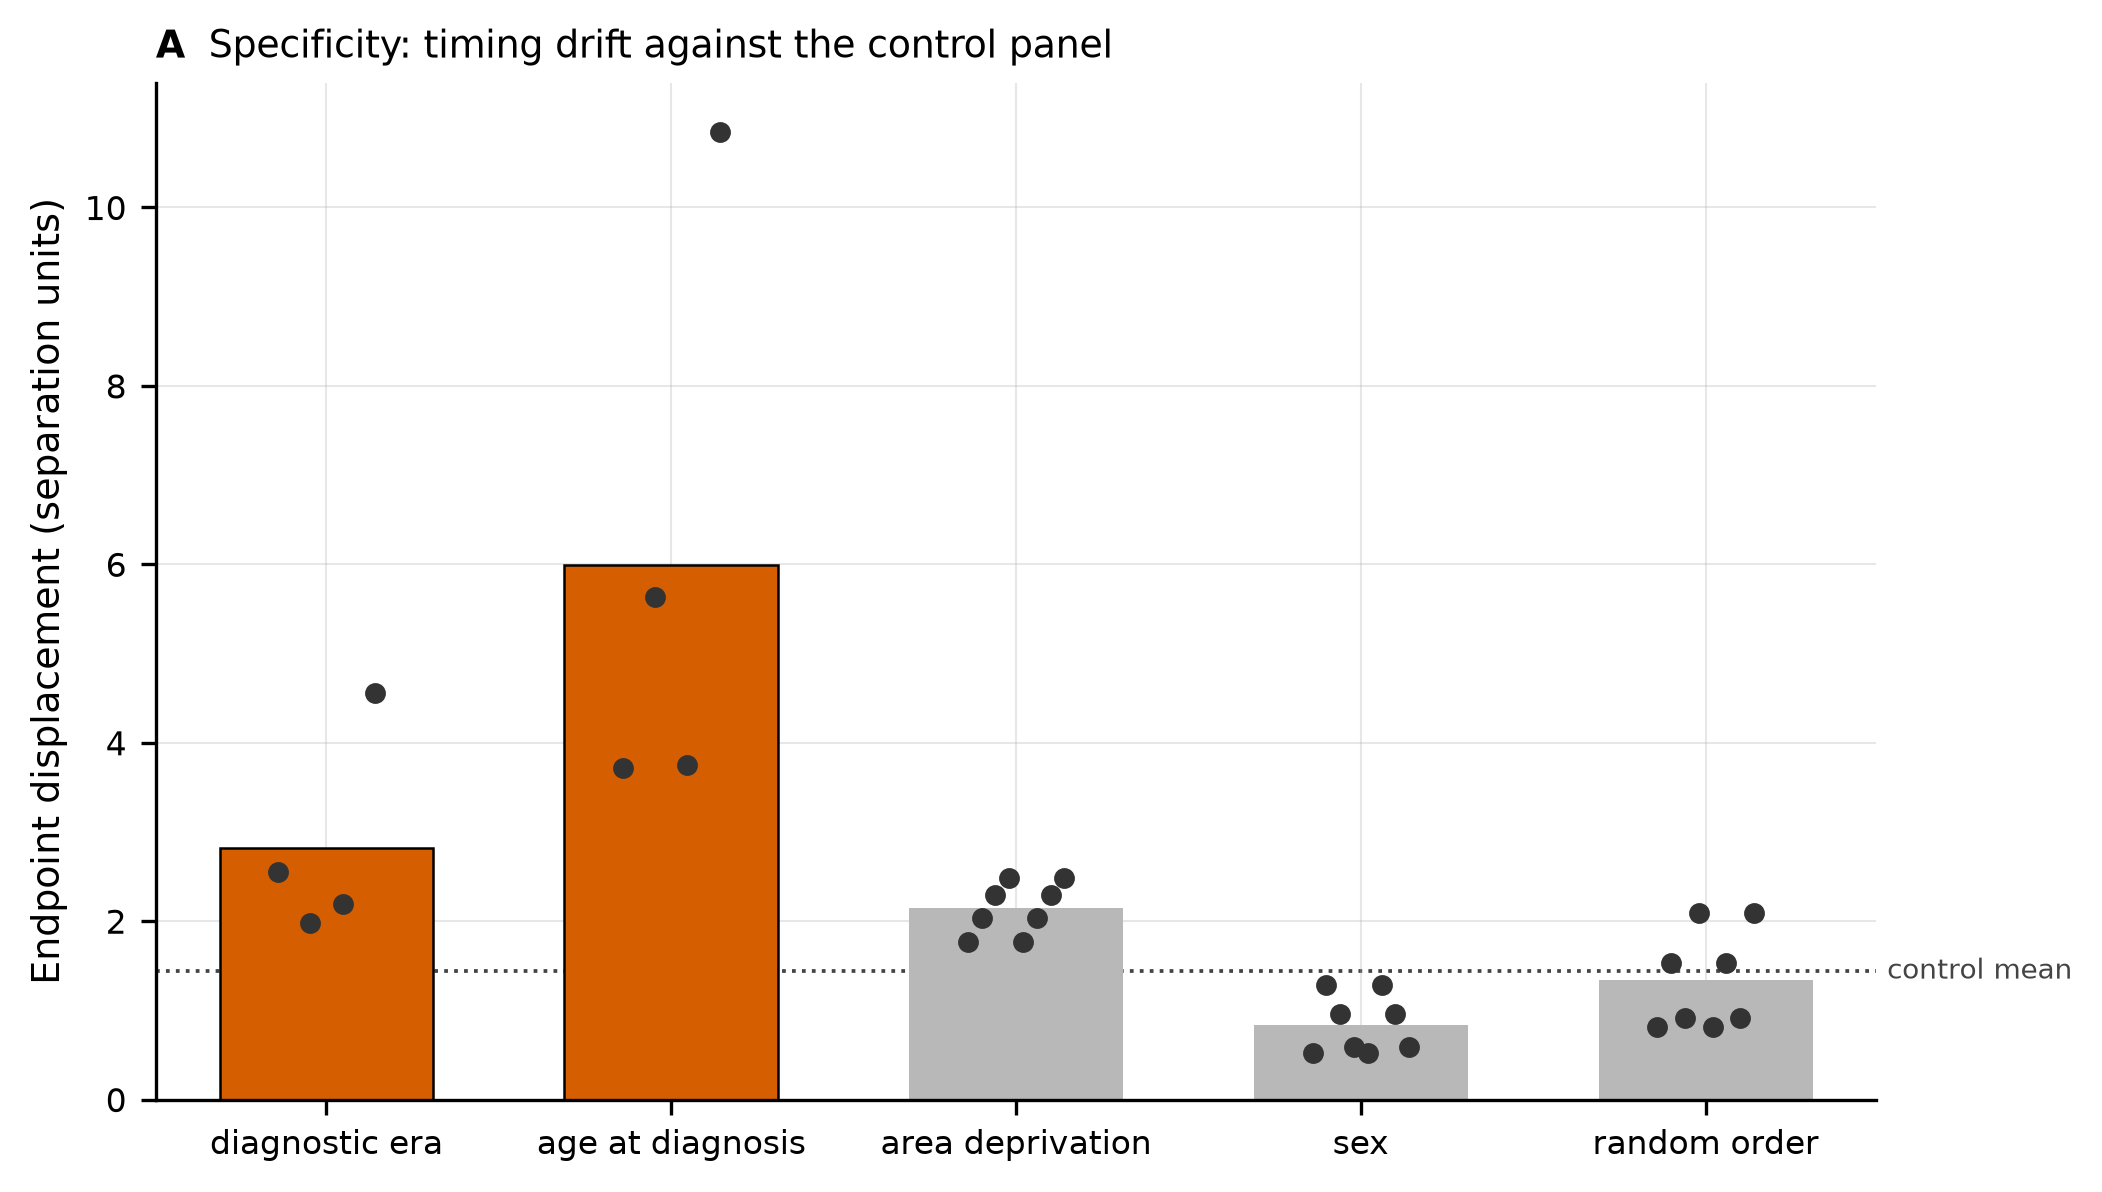
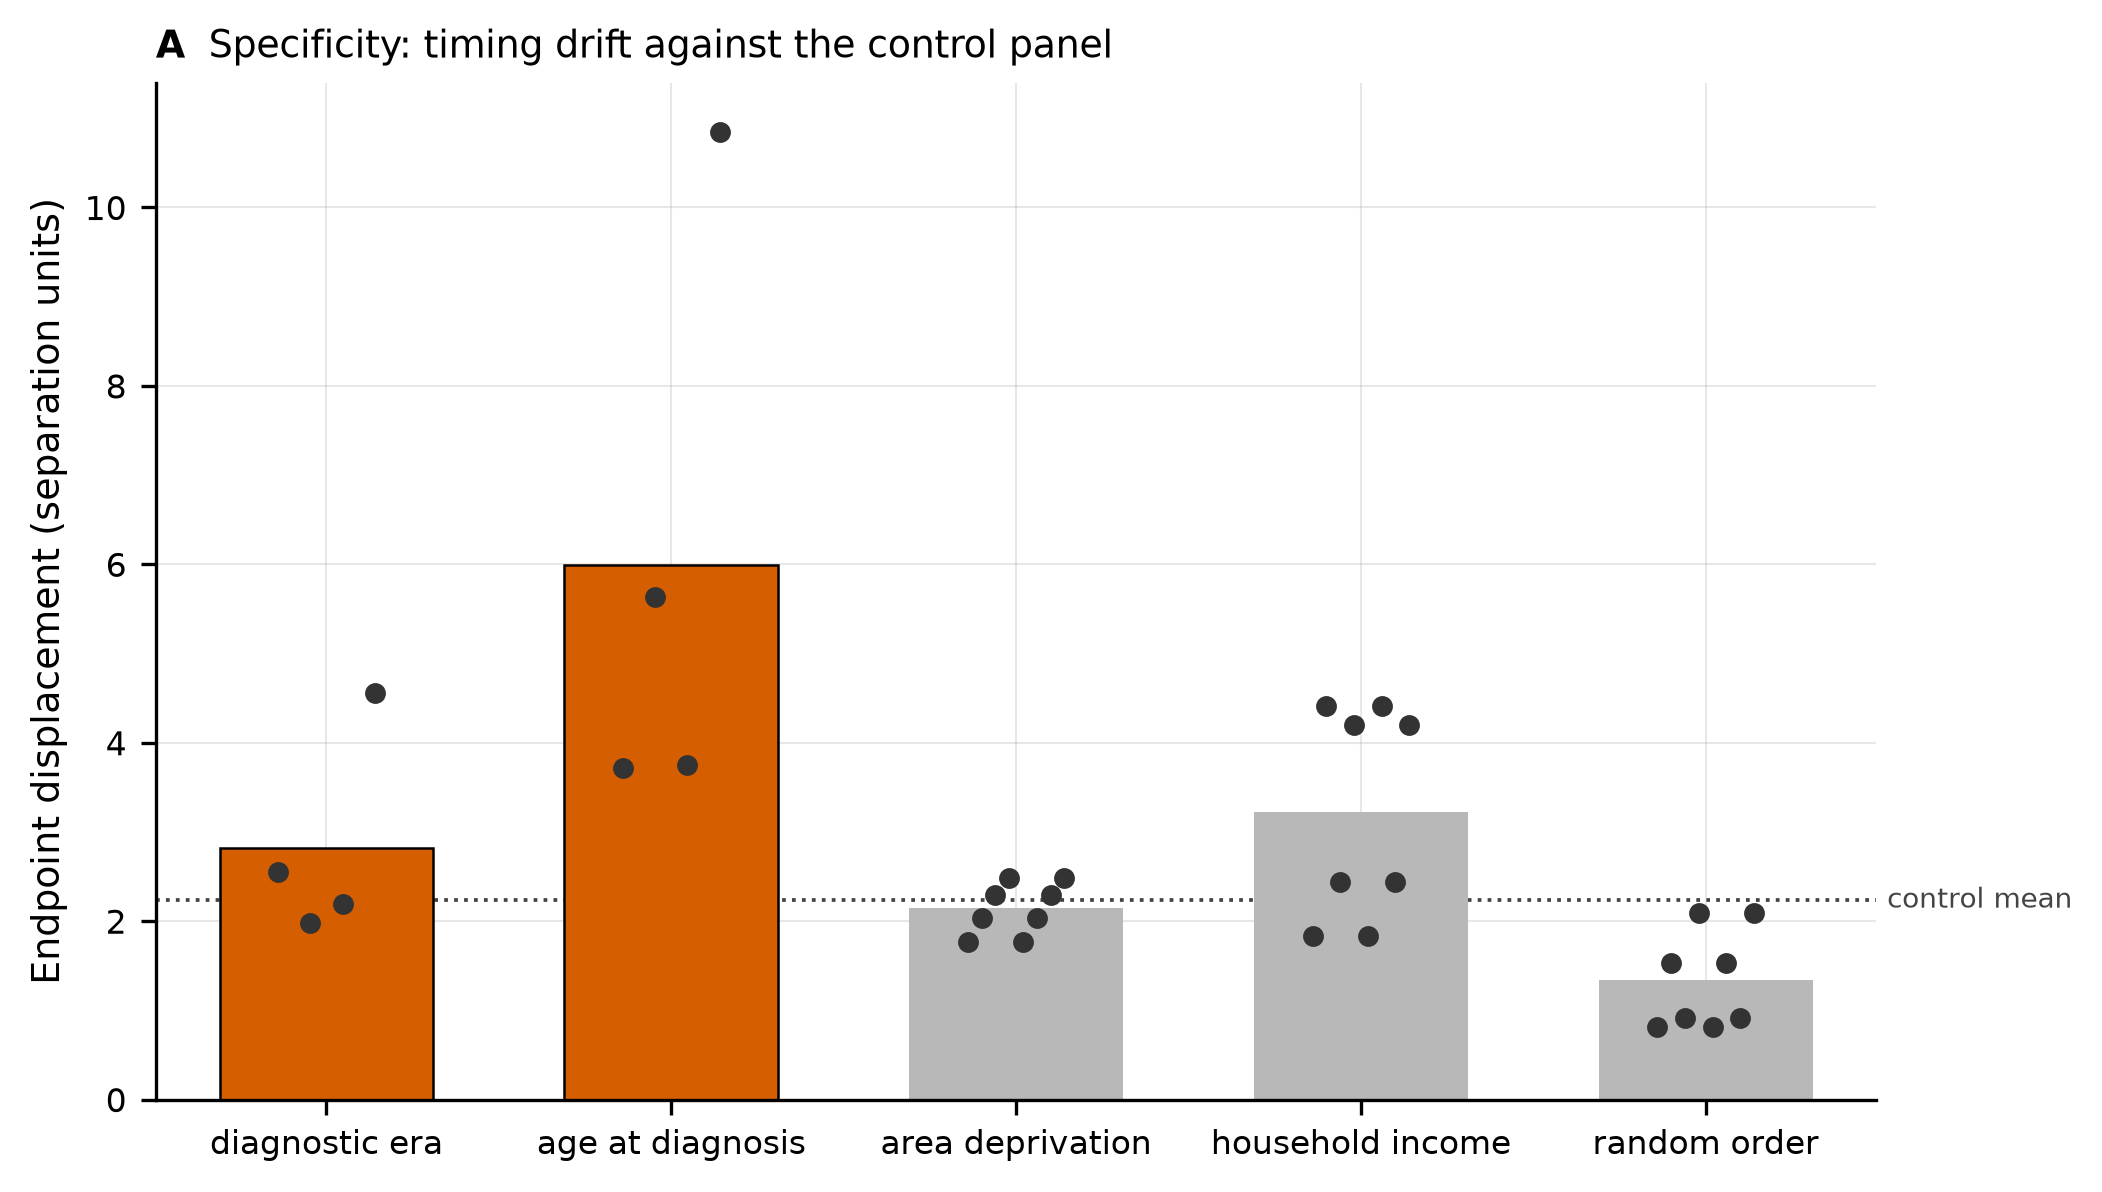
docs(analysis): investigation on choosing the specificity controls
Write up how the negative-control panel is selected: exclude the
clustered features and other phenotype measures by role (ordering by
them moves the centroids by construction), then screen the remaining
proband-level covariates for timing-orthogonality, gradedness, and
missingness. Show that household income, the control that decides the
era verdict, sits mid-scale between the random floor and the phenotype
ceiling and is uncorrelated with the severity axis, so its height is a
socioeconomic gradient rather than leaked phenotype. Rewrite the
specificity section of the invariance guide with the screened panel
and the per-class result, and re-render the figure.

diff --git a/packages/analysis/src/analysis/trajectory_local.py b/packages/analysis/src/analysis/trajectory_local.py
@@ -659,7 +659,7 @@ class ControlComparison:
     ----------
     axis_magnitude, control_magnitude : float
         The observed, class-averaged, separation-scaled endpoint magnitude of the timing axis and
-        of the control variable (sex, area deprivation, or a random ordering).
+        of the control variable (household income, area deprivation, or a random ordering).
     difference : float
         ``axis_magnitude - control_magnitude``.
     diff_draws : numpy.ndarray

diff --git a/docs/source/packages/analysis/investigations/choosing-the-specificity-controls.md b/docs/source/packages/analysis/investigations/choosing-the-specificity-controls.md
@@ -1,0 +1,159 @@
+# Choosing the specificity controls
+
+:::{admonition} The question
+:class: note
+
+The specificity check asks whether a class drifts more along diagnosis timing than along variables
+that are not the mechanism under test. That comparison is only as good as its controls. The first
+panel (sex, the area deprivation index, and a random ordering) was lifted from the descriptive-table
+covariates, not chosen for control validity, and it has a soft spot: sex is binary, so the
+displacement trajectory has almost nothing to walk. This page sets out what a control must be, screens
+the full covariate pool against those criteria, and settles whether the strongest survivor, household
+income, is a fair control or a phenotype measure in disguise.
+:::
+
+:::{admonition} The result
+:class: tip
+
+A control has to be a real proband-level covariate that is not the phenotype and is orthogonal to the
+timing axes. Two roles fail on principle and are excluded before any number is read: the 238 clustered
+features (ordering by one moves the class centroids by construction) and other phenotype measures such
+as symptom totals or IQ (a non-null ceiling, and several track timing too). Screening the legitimate
+pool leaves two graded, timing-orthogonal, near-complete covariates, household income and area
+deprivation, with a random ordering as the floor. Household income is the hardest bar (mean endpoint
+displacement about 3.2 separation units) and a fair one: it sits well below the phenotype ceiling and
+is uncorrelated with the severity axis, so its height is a genuine socioeconomic gradient rather than
+leaked phenotype. Sex is dropped, binary and the least timing-orthogonal of the candidates.
+:::
+
+## The comparison the check makes
+
+A large displacement on its own does not separate genuine drift from noise accumulated over many
+features, because the norm of pure sampling noise is positive too. The specificity check reads the
+same separation-scaled endpoint displacement along control variables and asks whether the timing axes
+exceed them. A class is above the noise floor if it clears a random ordering, and specific to timing
+if it also clears a real covariate that is not the mechanism. The mechanics of the endpoint
+displacement are in the guide on {doc}`invariance as an effect size
+<../guides/invariance-as-an-effect-size>`; this page is about which controls earn a place in the
+comparison.
+
+## Two roles are disqualified before any number
+
+The variables split by role, and two roles cannot be negative controls whatever their numbers say.
+
+The classes are defined in the space of the 238 clustered features, so ordering probands by one of
+them, and reading how the class centroids shift along that order, is circular: the centroids differ on
+that feature because the classes were built to. Symptom totals and ability scores that are not in the
+238 are the second excluded role. They are still phenotype, correlated with the clustered features by
+construction, so ordering by them moves the centroids for a real but non-timing reason, a ceiling
+rather than a null. Cognitive impairment and IQ belong here, which is why neither can serve as a
+control even though both are proband-level covariates.
+
+This is why a screen that simply ranks every variable by its correlation with timing and picks the
+lowest would go wrong. The RBS-R total has a rank correlation with year of diagnosis and with age at
+diagnosis of about $0.03$ to $0.04$, cleaner than area deprivation, yet it is a total over
+clustered instrument items and moving probands along it would shift the centroids by construction.
+Orthogonality to timing is necessary but not sufficient. A control must also not be the phenotype, and
+a correlation cannot see role.
+
+## Screening the legitimate pool
+
+The legitimate pool is the proband-level covariates that are not the phenotype. Each was screened on
+the reference cohort (SPARK `2026-03-23`, 11,704 probands) for its rank correlation with the two
+timing axes, whether it is graded enough for the trajectory to have an axis to walk, and its
+missingness.
+
+| Candidate | Role | Distinct values | Missing | $\lvert\rho\rvert$ era | $\lvert\rho\rvert$ age |
+| --- | --- | --- | --- | --- | --- |
+| Random ordering | floor | 11,704 | 0% | 0.003 | 0.003 |
+| Area deprivation (2019 ADI) | covariate | 100 | 10.6% | 0.043 | 0.035 |
+| Household income (9 bands) | covariate | 9 | 1.3% | 0.070 | 0.041 |
+| Number of ASD siblings | covariate | 6 | 30.9% | 0.021 | 0.027 |
+| Sex | covariate | 2 | 0% | 0.113 | 0.106 |
+| Race (white indicator) | covariate | 2 | 0% | 0.243 | 0.175 |
+| Family type | covariate | 3 | 0% | 0.208 (eta) | 0.082 (eta) |
+| RBS-R total | phenotype | 128 | 0% | 0.031 | 0.037 |
+| SCQ total | phenotype | 40 | 0% | 0.278 | 0.227 |
+| Full-scale IQ | phenotype | 101 | 93.4% | 0.173 | 0.328 |
+| Registration year | timing | 12 | 0% | 0.692 | 0.261 |
+| Age at evaluation | timing | 14 | 0% | 0.249 | 0.410 |
+
+The screen validates itself at both ends. The variables that are timing by construction, registration
+year and age at evaluation, top the correlation ranking as they should, and the random ordering sits
+at $0.003$. Between them, only two covariates are graded, close to timing-orthogonal, and nearly
+complete: household income and the area deprivation index. Sex correlates with both timing axes more
+than either (about $0.11$) and is binary, so its trajectory is degenerate; its earlier low displacement
+was that degeneracy, not evidence of no phenotype signal. The white-race indicator and family type are
+more timing-confounded still. The pool of clean graded covariates in SPARK is small, so the panel is
+short by necessity, not by neglect.
+
+## Is household income too high?
+
+Household income is the hardest control: its per-class endpoint displacements reach $4.4$ for the
+Broadly affected class and $4.2$ for the developmental class, and that is what turns two era classes
+from specific to not specific. So the fair question is whether income is a legitimate strong
+socioeconomic gradient or is acting like the IQ and cognitive-impairment proxies the previous section
+excluded. Placing every axis on the same displacement scale answers it.
+
+| Axis | Role | Mean endpoint (sep. units) |
+| --- | --- | --- |
+| Random ordering | floor | 1.34 |
+| Area deprivation | covariate | 2.14 |
+| Household income | covariate | 3.22 |
+| SCQ total | phenotype ceiling | 6.59 |
+| RBS-R total | phenotype ceiling | 10.01 |
+
+Income sits in the middle of the scale, above the random floor and area deprivation but far below the
+phenotype ceiling that the clustered-instrument totals set at $6.6$ to $10.0$. A phenotype proxy would
+land at that ceiling; income is less than half of it. Its correlations tell the same story: income is
+uncorrelated with cognitive impairment (Spearman $|\rho| = 0.02$), the cleanest severity marker, so it
+is not a disguised severity axis; it correlates $0.50$ with area deprivation, confirming it is a
+socioeconomic measure; and it correlates $0.31$ with the RBS-R total, a real but modest social gradient
+in symptom severity. Income reads higher than area deprivation because household income is a cleaner
+socioeconomic signal than neighbourhood deprivation, not because it is phenotype.
+
+The same read explains why IQ and cognitive impairment cannot stand in as the ceiling here. Both came
+back near or below the floor ($0.9$ and $0.0$), degenerate because cognitive impairment is binary and
+IQ is present for only a small, selected minority. Only the graded clustered totals read as a real
+phenotype ceiling.
+
+So income stays. Its height is the control working, not failing. Dropping a valid control because it
+is stringent would select controls that flatter the timing result, the bias the screen exists to
+avoid. The screen chose income on validity grounds, blind to its magnitude, and swapping the earlier
+sex control (an easily cleared bar at $0.8$) for income (a stringent bar at $3.2$) makes the
+specificity test harder, not easier.
+
+## The panel
+
+:::{figure} /_figures/local_specificity.png
+:alt: Bar chart of endpoint displacement for era, age, area deprivation, household income, and random order
+:width: 100%
+:align: center
+
+Endpoint displacement by axis, in separation units, on the reference release. The two timing axes
+(highlighted) carry a dot per class; the control panel is area deprivation, household income, and a
+random ordering. The dotted line is the control mean.
+:::
+
+The panel is a random ordering (the floor, about $1.3$), household income (about $3.2$), and area
+deprivation (about $2.1$). Read per class rather than on the between-class mean, because a mean hides
+drift concentrated in one class: a class is above the noise floor if its endpoint clears the random
+ordering, and specific to timing if it also clears the household-income and area-deprivation controls.
+Along age at diagnosis all four classes clear every control. Along diagnostic era the Moderate
+challenges and developmental classes clear the covariate controls while the Broadly affected and
+Social or behavioral classes clear only the random floor, so their era drift is above noise but no
+larger than a real socioeconomic gradient in the same classes. This is the same two-class era verdict
+the earlier sex-and-deprivation panel gave, now standing against the stronger bar.
+
+## Limits
+
+The controls are read on the same frozen reference and the same endpoint displacement as the timing
+axes, so they inherit its assumptions: the comparison is where the class centroids sit along an
+ordering, not a re-estimated partition. SPARK's supply of graded, non-phenotype, timing-orthogonal
+covariates is thin, so the panel rests on two socioeconomic measures that correlate with each other at
+$0.5$; they are not independent readings of the same idea so much as one construct measured at the
+household and the neighbourhood. The screen's correlations and the ceiling placement are a design-time
+read on the reference cohort, quoted here as the evidence for the panel rather than as a pipeline
+stage. What the page settles is narrow and firm: the negative controls are chosen by role and by a
+timing-orthogonality screen, not by convenience, and the one control that decides the era verdict is a
+genuine socioeconomic gradient, not leaked phenotype.

diff --git a/docs/source/packages/analysis/guides/invariance-as-an-effect-size.md b/docs/source/packages/analysis/guides/invariance-as-an-effect-size.md
@@ -104,22 +104,45 @@ effective probands at each focal point.
 A large magnitude alone does not separate genuine drift from noise accumulated across many features,
 because the norm of pure sampling noise is positive too. The specificity check reads the same
 separation-scaled endpoint displacement along control variables that are not the mechanism under
-test: sex, the area deprivation index, and a random ordering. The claim is comparative: the timing
-axes exceed the controls. The random ordering is the floor a meaningless axis produces, and area
-deprivation is a real socio-geographic variable that the class profiles may track, so it is a harder
-control than the random floor. This is a magnitude comparison, not a reject-or-not decision, because
-at this sample size everything rejects.
+test, and asks whether the timing axes exceed them.
+
+The controls are screened, not assumed. A valid control is a real proband-level covariate that is
+not the phenotype and is orthogonal to the timing axes. The phenotype is excluded on principle: the
+classes are defined on the 238 clustered features, so ordering probands by one of them, or by a
+symptom total correlated with them, moves the class centroids by construction, which is circular
+rather than a null. Orthogonality to timing is checked on the data: across the modelling cohort the
+rank correlation of each control with year of diagnosis and with age at diagnosis is near zero
+(household income about 0.07, area deprivation about 0.04), against 0.4 to 0.7 for variables that are
+timing by construction. Two graded covariates pass both tests, household income (a nine-band
+ordinal) and the 2019 area deprivation index, so the displacement trajectory has an axis to walk.
+Sex, used in an earlier version of the panel, is dropped: it is binary, so the trajectory is
+degenerate, and it is the least timing-orthogonal of the candidates.
+
+The panel brackets the timing effect. The random ordering is the floor a meaningless axis produces
+(mean displacement about 1.3 separation units). Household income (about 3.2) and area deprivation
+(about 2.1) are real covariates that the class profiles track through a non-timing pathway, so they
+are harder controls than the floor. A timing axis is above the noise floor if it clears the random
+ordering, and specific to timing if it also clears the two covariate controls. This is a magnitude
+comparison, not a reject-or-not decision, because at this sample size everything rejects.
 
 :::{figure} /_figures/local_specificity.png
-:alt: Bar chart of endpoint displacement for era, age, area deprivation, sex, and random order
+:alt: Bar chart of endpoint displacement for era, age, area deprivation, household income, and random order
 :width: 100%
 :align: center
 
 Endpoint displacement by axis, in separation units. The two timing axes (highlighted) sit above the
 control panel, with a dot per class on each bar. Age at diagnosis is the largest, carried by the
-developmental class; both timing axes clear the control mean (the dotted line), so the drift is above
-the noise floor a random ordering gives and larger than the sex and deprivation controls.
+developmental class; both timing axes clear the control mean (the dotted line), above the noise floor
+a random ordering gives and above the income and deprivation covariates.
 :::
+
+Specificity is read per class, not on the between-class mean, because a mean hides drift concentrated
+in one class. Along age at diagnosis all four classes clear every control, so the effect is specific
+throughout, and largest for the developmental class (endpoint about 10.9 separation units). Along
+diagnostic era the picture splits: the moderate-challenges and the developmental (Mixed ASD with DD)
+classes clear the covariate controls, while the broadly-affected and social-or-behavioral classes sit
+above the random floor but below their own household-income control, so their era drift is above
+noise but not specific to timing.
 
 ## Directionality (DIREC)
 
@@ -212,11 +235,14 @@ local-specificity` (the control-panel small-multiple, which reads both timing ax
 
 ## Reading the result
 
-On the reference release the two axes tell a consistent story. Diagnosis year and age at diagnosis
-both drift beyond the control panel: the separation-scaled endpoint displacement averages about 2.8
-along diagnosis year and about 6.0 along age at diagnosis, against 2.1 for area deprivation, 1.3 for
-the random floor, and 0.8 for sex. The age effect is the larger, carried by the developmental class
-(the Mixed ASD with developmental delay class moves furthest). Roughly a third of the per-feature
+On the reference release the two axes tell a consistent story with an honest split. The
+separation-scaled endpoint displacement averages about 2.8 along diagnosis year and about 6.0 along
+age at diagnosis, against a control panel of about 3.2 for household income, 2.1 for area
+deprivation, and 1.3 for the random floor. Age at diagnosis clears every control, on the mean and for
+all four classes. Diagnosis year clears the random floor and area deprivation, but its mean sits just
+below the household-income control, and per class only the moderate-challenges and developmental
+classes clear the covariate controls. The age effect is the larger, carried by the developmental
+class (the Mixed ASD with developmental delay class moves furthest). Roughly a third of the per-feature
 displacements survive the false-discovery step for diagnosis year and over half for age at
 diagnosis, so the drift is pervasive but not total: most single features stay within sampling noise
 while the class profiles as a whole move.

diff --git a/docs/source/packages/analysis/index.md b/docs/source/packages/analysis/index.md
@@ -162,7 +162,12 @@ for the arc, or jump to one.
    the eight class-by-axis tests it does. Age at diagnosis moves every class the same way, led by
    the developmental class; diagnostic era splits, and the Moderate challenges class has a large
    era displacement but no directional trend, with the era breaks falling around 2017.
-8. {doc}`Do the class sizes shift? <investigations/the-size-of-the-classes>` Every class's
+8. {doc}`Which controls does the specificity check use? <investigations/choosing-the-specificity-controls>`
+   The negative controls are chosen by role and by a timing-orthogonality screen, not by convenience:
+   the phenotype and the clustered features are excluded on principle, leaving household income and
+   area deprivation against a random floor. The one control that decides the era verdict, household
+   income, is shown to be a genuine socioeconomic gradient rather than leaked phenotype.
+9. {doc}`Do the class sizes shift? <investigations/the-size-of-the-classes>` Every class's
    proportion trends on both axes. The developmental class falls from about a third of the
    earliest-diagnosed to almost none of the latest while the social class grows to three fifths; the
    era shift is milder, and its social rise is explained away by measurement timing while the age
@@ -217,6 +222,7 @@ investigations/the-minimum-stratum-size
 investigations/replicating-in-the-ssc
 investigations/tracking-the-classes-across-strata
 investigations/the-direction-of-the-drift
+investigations/choosing-the-specificity-controls
 investigations/the-size-of-the-classes
 :::
 